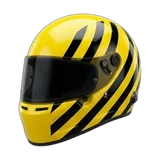
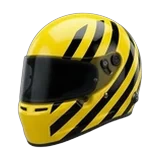
Helmets centred on one 160×160 square; frame holes re-measured for all 18 frames (stale sizes made the helmet sit off-centre)
Claude-Session: https://claude.ai/code/session_01YH73bmVKmcSwFykVt1gPrj

diff --git a/public/s2-ui.js b/public/s2-ui.js
@@ -28,14 +28,14 @@ function caseArt(cs, open = false, cls = '') {
   if (cs.starter) return `<img class="s2-cimg ${cls}" src="s2/x-gift.webp" alt="" draggable="false">`;
   return `<span class="s2-cflag ${cls}">${X.caseIcon(cs)}</span>`;
 }
-// Frame holes (centre x, centre y, radius as a share of the width; the picture's own size) for placing the helmet.
-const HOLES = { f0: [0.5046, 0.5527, 0.2623, 326, 332], f1: [0.4984, 0.4969, 0.3047, 320, 327], f2: [0.4969, 0.4864, 0.2875, 320, 331], f3: [0.5015, 0.541, 0.2654, 324, 329],
-  f4: [0.5153, 0.5107, 0.3012, 327, 326], f5: [0.4954, 0.515, 0.2918, 329, 333], f6: [0.5015, 0.5255, 0.2886, 324, 333], f7: [0.4954, 0.5045, 0.2936, 327, 330],
-  f8: [0.5015, 0.5046, 0.2893, 337, 328], f9: [0.4984, 0.4984, 0.3062, 307, 311], f10: [0.5278, 0.4968, 0.3105, 306, 310], f11: [0.4984, 0.4968, 0.3056, 306, 310],
-  f12: [0.4984, 0.5413, 0.2964, 307, 327], f13: [0.4984, 0.5015, 0.3071, 311, 326],
-  // s2-fix: f14–f17 measured from the pictures (the transparent hole's centroid and area); f10 re-centred (was 0.5278)
-  f14: [0.4994, 0.5016, 0.279, 219, 220], f15: [0.4996, 0.4974, 0.3196, 218, 220], f16: [0.5008, 0.5011, 0.295, 215, 220], f17: [0.4997, 0.4979, 0.3177, 219, 220] };
-HOLES.f10 = [0.4998, 0.4973, 0.3092, 217, 220]; // s2-fix
+// Frame holes (centre x, centre y, radius as a share of the width; the picture's own size), measured from the pictures
+// (the transparent hole's centroid and area) on 2026-11-03 — re-measure if a frame picture changes.
+const HOLES = {
+  f0: [0.5037, 0.5416, 0.2789, 216, 220], f1: [0.4971, 0.4613, 0.2654, 215, 220], f2: [0.4947, 0.4846, 0.2702, 213, 220], f3: [0.5000, 0.5332, 0.2756, 217, 220],
+  f4: [0.5149, 0.5082, 0.3058, 220, 219], f5: [0.4888, 0.5065, 0.2803, 217, 220], f6: [0.5003, 0.5235, 0.2890, 214, 220], f7: [0.4939, 0.5025, 0.2942, 218, 220],
+  f8: [0.4939, 0.5081, 0.2502, 220, 214], f9: [0.4985, 0.4972, 0.3065, 217, 220], f10: [0.4976, 0.4951, 0.3085, 217, 220], f11: [0.4984, 0.4944, 0.3081, 217, 220],
+  f12: [0.4979, 0.5414, 0.3029, 207, 220], f13: [0.4992, 0.4996, 0.3078, 210, 220], f14: [0.4972, 0.5003, 0.2771, 219, 220], f15: [0.4974, 0.4955, 0.3186, 218, 220],
+  f16: [0.4989, 0.4989, 0.2927, 215, 220], f17: [0.4973, 0.4962, 0.3167, 219, 220] };
 const holeOf = (f) => HOLES['f' + f] || [0.5, 0.5, 0.3, 1, 1];
 // Achievement → badge picture (public/s2/bd/b<N>.webp, all drawn gold; lower tiers are tinted in CSS).
 const ACH_BADGE = { cases: 1, wins: 2, pvp: 9, battles: 10, collection: 3, rarest: 11, secrets: 12, garage: 0, level: 13, play: 14, streak: 6, merges: 15, tuned: 16, plates: 17, friends: 5, dream: 18 };
